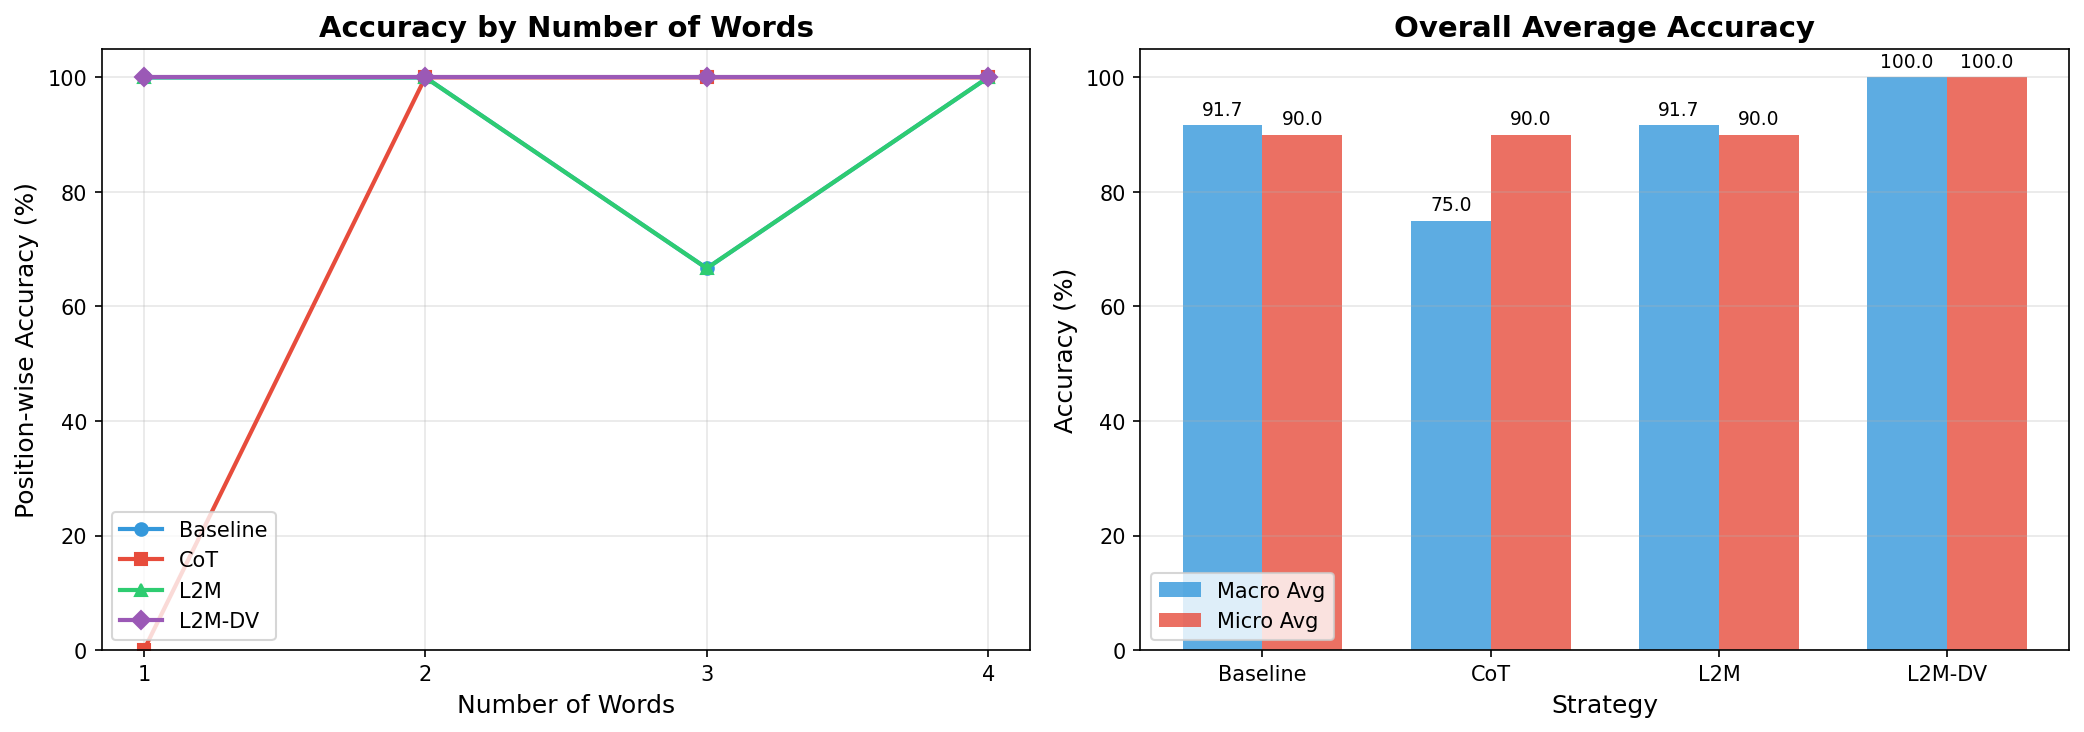
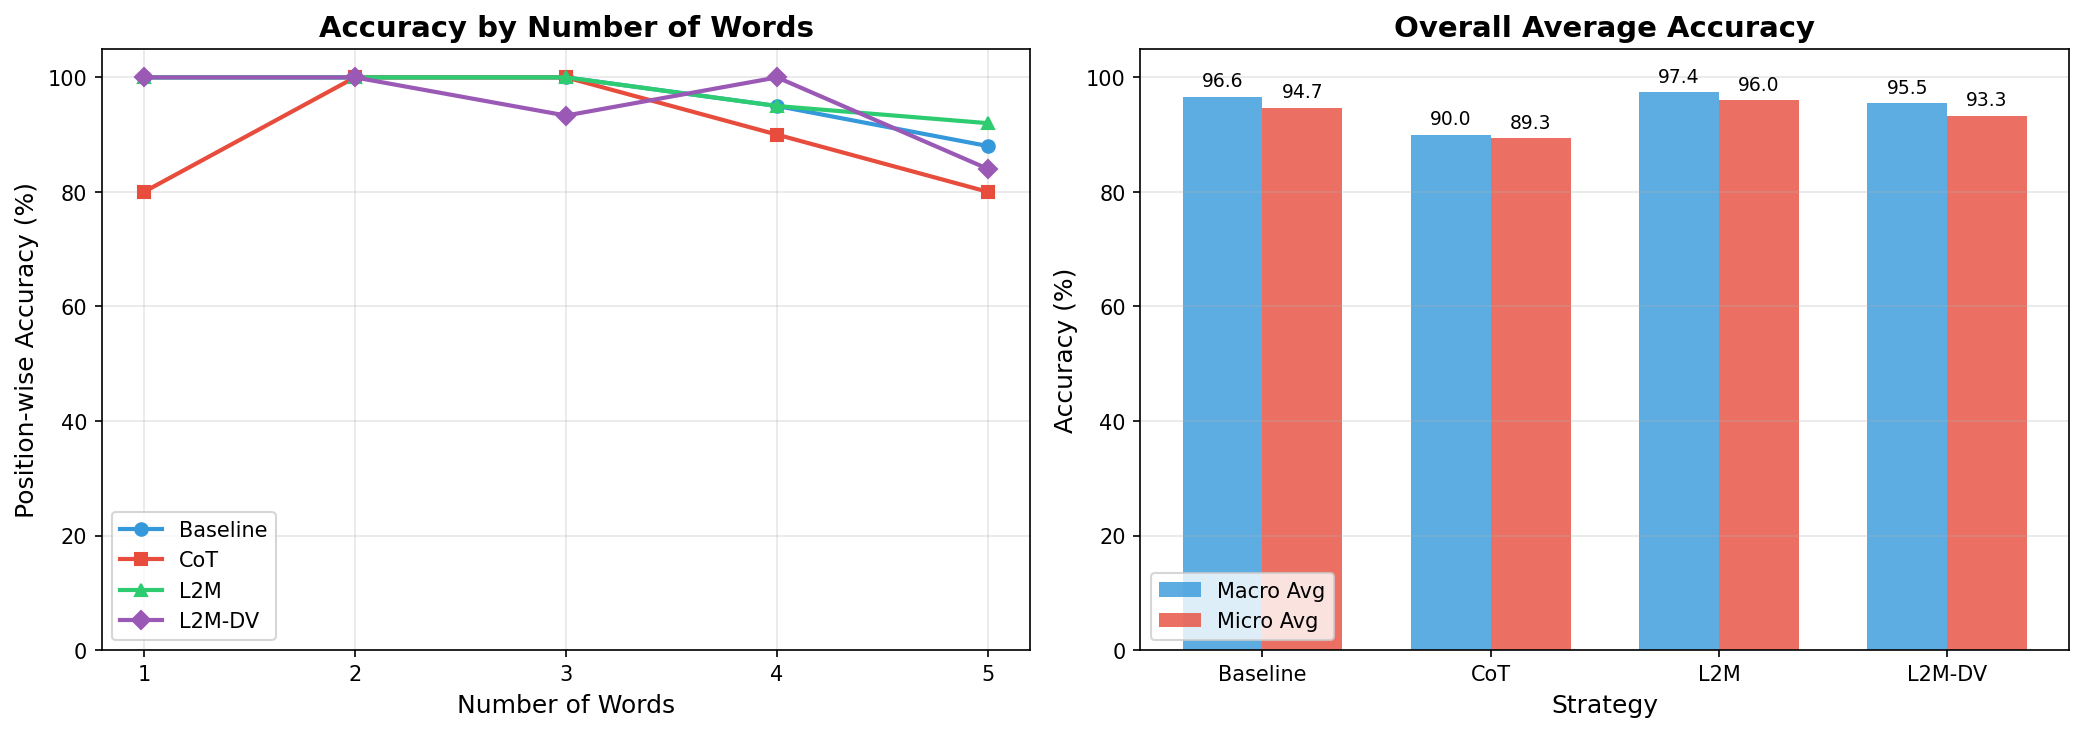
feat: 평가 로직에 `num_words`별 배치 처리, 병렬 실행 및 API 호출 속도 제한 기능을 구현

diff --git a/src/evaluation.py b/src/evaluation.py
@@ -1,11 +1,21 @@
 """L2M-CoT 평가 로직 모듈."""
 
+import threading
+from collections import defaultdict
 from concurrent.futures import ThreadPoolExecutor, as_completed
 from dataclasses import dataclass
 from typing import List, Dict
 
 from src.strategies import SolverStrategy, StrategyResult
 from src.utils import normalize_answer
+
+try:
+    from tqdm import tqdm
+except ImportError:
+    # tqdm이 없으면 간단한 대체 함수 사용
+    def tqdm(iterable, desc=""):
+        print(f"{desc}...")
+        return iterable
 
 
 @dataclass
@@ -103,6 +113,145 @@ def evaluate(
                 l2mdv_correct=is_correct(l2mdv.final_answer, gold, n_words),
             )
         )
+
+    return results
+
+
+# =========================================================
+# ✅ 배치 처리 함수
+# =========================================================
+
+# Rate Limit을 위한 Semaphore (전역 변수)
+_api_semaphore: threading.Semaphore = None
+
+
+def _init_semaphore(max_concurrent: int) -> None:
+    """API 동시 호출 제한을 위한 세마포어 초기화."""
+    global _api_semaphore
+    _api_semaphore = threading.Semaphore(max_concurrent)
+
+
+def _solve_with_limit(
+    strategy: SolverStrategy, question: str, use_fewshot: bool, n_words: int
+) -> StrategyResult:
+    """세마포어로 동시 요청 수를 제한하며 전략 실행."""
+    with _api_semaphore:
+        return strategy.solve(question, use_fewshot, n_words)
+
+
+def _print_batch_summary(results: List[Result], n_words: int) -> None:
+    """배치 처리 후 해당 num_words의 평균 정확도 출력."""
+    batch_results = [r for r in results if r.n_words == n_words]
+    if not batch_results:
+        return
+
+    print(f"\n[Batch Summary for n_words={n_words}]")
+    for name, attr in zip(STRATEGY_NAMES, STRATEGY_PRED_ATTRS):
+        correct_sum = 0
+        total_sum = 0
+        for r in batch_results:
+            pred = getattr(r, attr)
+            correct, total, _ = position_acc_stats(r.gold, pred)
+            correct_sum += correct
+            total_sum += total
+        acc = (correct_sum / total_sum * 100.0) if total_sum else 0.0
+        print(f"  {name:10s}: {acc:.2f}%")
+
+
+def evaluate_batch(
+    dataset: List[Dict[str, object]],
+    strategies: List[SolverStrategy],
+    use_fewshot: bool,
+    batch_size: int = 5,
+    max_concurrent: int = 8,
+) -> List[Result]:
+    """
+    num_words별로 배치 단위 병렬 처리.
+
+    Args:
+        dataset: 전체 데이터셋
+        strategies: 평가할 전략 리스트
+        use_fewshot: few-shot 사용 여부
+        batch_size: 각 num_words당 동시 실행할 문제 수
+        max_concurrent: 최대 동시 API 호출 수
+
+    Returns:
+        List[Result]: 평가 결과 리스트
+    """
+    # 세마포어 초기화
+    _init_semaphore(max_concurrent)
+
+    # 1. num_words별로 데이터셋 그룹화
+    by_n_words: Dict[int, List[Dict]] = defaultdict(list)
+    for item in dataset:
+        by_n_words[int(item["n_words"])].append(item)
+
+    results: List[Result] = []
+
+    # 2. 각 num_words 그룹 처리
+    for n_words in tqdm(sorted(by_n_words.keys()), desc="Processing by n_words"):
+        items = by_n_words[n_words][:batch_size]  # 배치 크기만큼 선택
+
+        print(f"\n{'=' * 70}")
+        print(f"num_words = {n_words} | batch_size = {len(items)}")
+
+        # 3. 배치 내 모든 (문제, 전략) 조합을 병렬 실행
+        batch_results: Dict[int, Dict[str, object]] = defaultdict(dict)
+
+        with ThreadPoolExecutor(
+            max_workers=min(len(items) * len(strategies), max_concurrent)
+        ) as executor:
+            futures = {}
+            for item in items:
+                pid = int(item["id"])
+                for strategy in strategies:
+                    future = executor.submit(
+                        _solve_with_limit,
+                        strategy,
+                        str(item["question"]),
+                        use_fewshot,
+                        n_words,
+                    )
+                    futures[future] = (pid, strategy.name, item)
+
+            for future in as_completed(futures):
+                pid, strategy_name, item = futures[future]
+                batch_results[pid][strategy_name] = future.result()
+                batch_results[pid]["_item"] = item
+
+        # 4. 배치 결과를 Result 객체로 변환
+        for pid, outs in batch_results.items():
+            item = outs.pop("_item")
+            gold = str(item["answer"])
+
+            # 중간 로그 출력
+            for name in STRATEGY_NAMES:
+                if name in outs:
+                    log_accuracy(name, gold, outs[name].final_answer)
+
+            results.append(
+                Result(
+                    problem_id=pid,
+                    n_words=n_words,
+                    question=str(item["question"]),
+                    gold=gold,
+                    baseline_pred=outs["Baseline"].final_answer,
+                    cot_pred=outs["CoT"].final_answer,
+                    l2m_pred=outs["L2M"].final_answer,
+                    l2mdv_pred=outs["L2M-DV"].final_answer,
+                    baseline_correct=is_correct(
+                        outs["Baseline"].final_answer, gold, n_words
+                    ),
+                    cot_correct=is_correct(outs["CoT"].final_answer, gold, n_words),
+                    l2m_correct=is_correct(outs["L2M"].final_answer, gold, n_words),
+                    l2mdv_correct=is_correct(
+                        outs["L2M-DV"].final_answer, gold, n_words
+                    ),
+                )
+            )
+
+        # 5. num_words별 배치 평균 정확도 출력
+        _print_batch_summary(results, n_words)
 
     return results
 

diff --git a/app.py b/app.py
@@ -6,10 +6,16 @@
 
 from typing import List
 
-from src.config import MAX_WORDS, TRIALS_PER_LENGTH, RANDOM_SEED
+from src.config import (
+    MAX_WORDS,
+    TRIALS_PER_LENGTH,
+    RANDOM_SEED,
+    BATCH_SIZE,
+    MAX_CONCURRENT_API,
+)
 from src.dataset import build_dataset
 from src.evaluation import (
-    evaluate,
+    evaluate_batch,
     summarize,
     print_accuracy_table,
     plot_accuracy_comparison,
@@ -34,7 +40,14 @@ def main():
         L2MDVStrategy(),
     ]
 
-    results = evaluate(dataset, strategies=strategies, use_fewshot=True)
+    # 배치 처리 방식 평가
+    results = evaluate_batch(
+        dataset,
+        strategies=strategies,
+        use_fewshot=True,
+        batch_size=BATCH_SIZE,
+        max_concurrent=MAX_CONCURRENT_API,
+    )
 
     # 기본 요약 출력
     summarize(results, MAX_WORDS)

diff --git a/src/config.py b/src/config.py
@@ -11,9 +11,13 @@ load_dotenv()
 # =========================================================
 MODEL_NAME = "gpt-4o-mini"
 MAX_WORDS = 15
-TRIALS_PER_LENGTH = 1
+TRIALS_PER_LENGTH = 5  # BATCH_SIZE와 동일하게 설정 권장
 RANDOM_SEED = 42
 TEMPERATURE = 0
+
+# 배치 처리 설정
+BATCH_SIZE = 5  # 각 num_words당 동시 실행할 문제 수
+MAX_CONCURRENT_API = 8  # 동시 API 호출 제한 (Rate Limit 방지)
 
 client = OpenAI(
     base_url="http://localhost:1234/v1",
